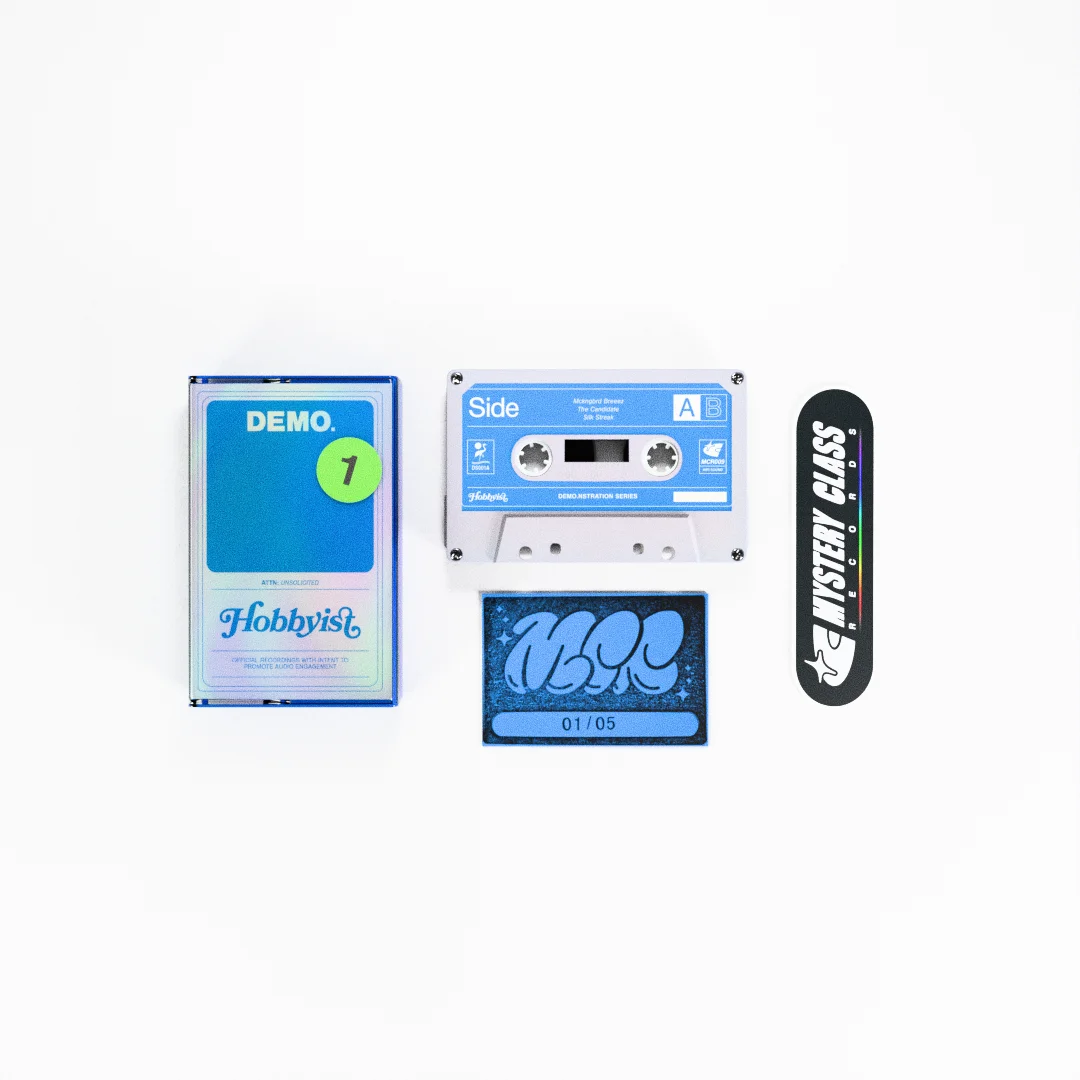
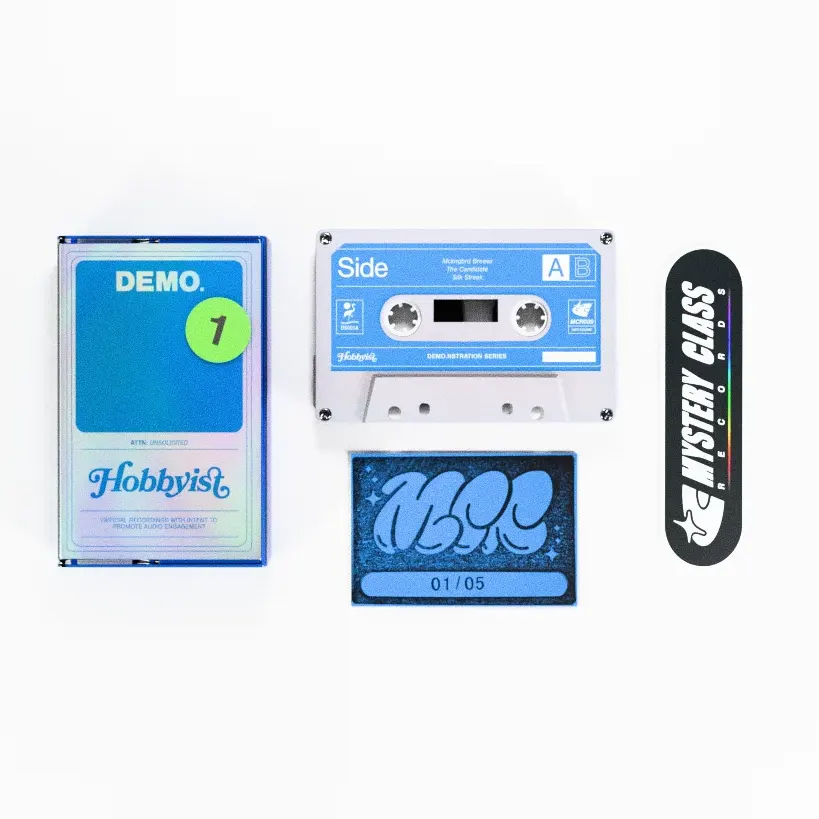
finished hobyist 2 (#12)

Changed region(s): [[0.0611, 0.2747, 0.9158, 0.7631]]

diff --git a/store/mcr-011/index.html b/store/mcr-011/index.html
@@ -4,7 +4,7 @@
     <!-- Metadata and Page Settings -->
     <meta charset="UTF-8">
     <meta name="viewport" content="width=device-width, initial-scale=1.0">
-    <title>Cassette - Demo.nstration #1 - Hobbyist,</title>
+    <title>Cassette - Demo.nstration #2 - Hobbyist,</title>
 
     <!-- Favicon -->
     <link rel="icon" href="../../assets/images/favicon.ico" type="image/x-icon">
@@ -49,11 +49,11 @@
     <main class="product-section">
       <div class="product-content-container">
         <div class="product-image">
-          <img src="../../assets/images/products/mcr-009/mcr-009-full.webp" alt="Product Image">
+          <img src="../../assets/images/products/mcr-011/mcr-011-full.webp" alt="Product Image">
         </div>
         <div class="product-image-spacer"></div>
         <div class="product-details-container">
-          <h1 class="product-title">Demo.nstration #1 - Pre-Order</h1>
+          <h1 class="product-title">Demo.nstration #2 - Pre-Order</h1>
           <div class="vertical-whitespace"></div>
           <h2 class="product-artist">Hobbyist,</h2>
           <div class="vertical-whitespace"></div>
@@ -63,7 +63,7 @@
             <span class="product-price">$10</span>
             <div class="product-buy-button">
 
-              <div id='product-component-1765554255802'></div>
+              <div id='product-component-1766208295638'></div>
               <script type="text/javascript">
               /*<![CDATA[*/
               (function () {
@@ -91,8 +91,8 @@
                   });
                   ShopifyBuy.UI.onReady(client).then(function (ui) {
                     ui.createComponent('product', {
-                      id: '8025872039990',
-                      node: document.getElementById('product-component-1765554255802'),
+                      id: '8097060978742',
+                      node: document.getElementById('product-component-1766208295638'),
                       moneyFormat: '%24%7B%7Bamount%7D%7D',
                       options: {
                 "product": {
@@ -399,12 +399,12 @@
             <h3>Track List</h3>
             <div class="vertical-whitespace"></div>
             <ol>
-              <li>Mckngbrd Breeez</li>
-              <li>The Candidate</li>
-              <li>Silk Streak</li>
-              <li>RedHat</li>
-              <li>New Things</li>
-              <li>Slketch</li>
+              <li>Get Right</li>
+              <li>Perspective</li>
+              <li>Pots & Logs</li>
+              <li>Firefly</li>
+              <li>Valleywill</li>
+              <li>Unwilted Stutter</li>
           </div>
           <hr class="separator">
           <div class="pressing-info">
@@ -412,7 +412,7 @@
             <div class="vertical-whitespace"></div>
             <p>First Edition Real-Time Dubbed</p>
             <p>White Cassette x5</p>
-            <p>MCR-009</p>
+            <p>MCR-011</p>
           </div>
         </div>
       </div>
@@ -422,7 +422,7 @@
     <!-- Description Section -->
     <section class="description-section">
       <p>
-        In collaboration with Zaragoza Record House—introducing the 1st EP and cassette of the Hobbyist, Demo.nstration Series.
+        In collaboration with Zaragoza Record House—this is the 2nd EP and cassette of the Hobbyist, Demo.nstration Series.
         <br><br>
         Limited to only 5, get your hands on this ultra rare gem while you can!
       </p>
@@ -441,16 +441,16 @@
           <h2 class="store-heading">RELATED</h2>
           <div class="store-grid">
 
-            <a href="../mcr-011/" class="merch-link">
+            <a href="../mcr-009/" class="merch-link">
               <div class="merch-block">
                 <div class="merch-block-image-container">
-                  <img src="../../assets/images/products/mcr-011/mcr-011.webp" alt="Product Image" class="merch-block-product-image default-image">
-                  <img src="../../assets/images/products/mcr-011/mcr-011-hover.webp" alt="Product Hover Image" class="merch-block-product-image hover-image">
+                  <img src="../../assets/images/products/mcr-009/mcr-009.webp" alt="Product Image" class="merch-block-product-image default-image">
+                  <img src="../../assets/images/products/mcr-009/mcr-009-hover.webp" alt="Product Hover Image" class="merch-block-product-image hover-image">
                 </div>
                 <div class="merch-block-details-container">
                   <div class="merch-block-names-container">
                     <p class="merch-block-artist-name">Hobbyist,</p>
-                    <p class="merch-block-product-name">Demo.nstration #2 - Cassette</p>
+                    <p class="merch-block-product-name">Demo.nstration #1 - Cassette</p>
                   </div>
                   <div class="merch-block-price-container">
                     <div class="merch-block-price">$10</div>

diff --git a/index.html b/index.html
@@ -59,27 +59,27 @@
     <!-- Featured Release Section -->
     <div class="featured-release">
       <div class="featured-release-hero">
-      <img src="assets/images/products/mcr-009/latest-release.webp" alt="Latest Release">
+      <img src="assets/images/products/mcr-011/latest-release.webp" alt="Latest Release">
       </div>
 
       <div class="falling-shapes">
-        <img src="assets/images/home/effects/sticker.webp" class="shape" style="--i:1;">
-        <img src="assets/images/home/effects/sticker.webp" class="shape" style="--i:2;">
-        <img src="assets/images/home/effects/sticker.webp" class="shape" style="--i:3;">
-        <img src="assets/images/home/effects/sticker.webp" class="shape" style="--i:4;">
+        <img src="assets/images/products/mcr-011/effect.webp" class="shape" style="--i:1;">
+        <img src="assets/images/products/mcr-011/effect.webp" class="shape" style="--i:2;">
+        <img src="assets/images/products/mcr-011/effect.webp" class="shape" style="--i:3;">
+        <img src="assets/images/products/mcr-011/effect.webp" class="shape" style="--i:4;">
       </div>
 
 
       <div class="release-text">
         <h2 class="release-heading">LATEST RELEASE</h2>
-        <h3 class="release-title">Demo.nstration #1</h3>
+        <h3 class="release-title">Demo.nstration #2</h3>
         <div class="rainbow-underline"></div>
         <p>
-          In collaboration with Zaragoza Record House—introducing the 1st EP and cassette of the Hobbyist, Demo.nstration Series.
-          <br> <br>
+          In collaboration with Zaragoza Record House—this is the 2nd EP and cassette of the Hobbyist, Demo.nstration Series.
+          <br><br>
           Limited to only 5, get your hands on this ultra rare gem while you can!
         </p>
-        <button class="pre-order-button" onclick="location.href='store/mcr-009/'">
+        <button class="pre-order-button" onclick="location.href='store/mcr-011/'">
           PRE-ORDER
         </button>        
       </div>
@@ -88,6 +88,24 @@
     <!-- Store Section -->
     <div class="store-section">
       <div class="store-grid">
+
+        <a href="store/mcr-011/" class="merch-link">
+          <div class="merch-block">
+            <div class="merch-block-image-container">
+              <img src="assets/images/products/mcr-011/mcr-011.webp" alt="Product Image" class="merch-block-product-image default-image">
+              <img src="assets/images/products/mcr-011/mcr-011-hover.webp" alt="Product Hover Image" class="merch-block-product-image hover-image">
+            </div>
+            <div class="merch-block-details-container">
+              <div class="merch-block-names-container">
+                <p class="merch-block-artist-name">Hobbyist,</p>
+                <p class="merch-block-product-name">Demo.nstration #2 - CASSETTE</p>
+              </div>
+              <div class="merch-block-price-container">
+                <div class="merch-block-price">$10</div>
+              </div>
+            </div>
+          </div>
+        </a>
 
         <a href="store/mcr-009/" class="merch-link">
           <div class="merch-block">

diff --git a/store/index.html b/store/index.html
@@ -48,6 +48,24 @@
       <div class="store-container">
         <h1 class="store-heading">STORE</h1>
         <div class="store-grid">
+
+          <a href="mcr-011/" class="merch-link">
+            <div class="merch-block">
+              <div class="merch-block-image-container">
+                <img src="../assets/images/products/mcr-011/mcr-011.webp" alt="Product Image" class="merch-block-product-image default-image">
+                <img src="../assets/images/products/mcr-011/mcr-011-hover.webp" alt="Product Hover Image" class="merch-block-product-image hover-image">
+              </div>
+              <div class="merch-block-details-container">
+                <div class="merch-block-names-container">
+                  <p class="merch-block-artist-name">Hobbyist,</p>
+                  <p class="merch-block-product-name">Demo.nstration #2 - CASSETTE</p>
+                </div>
+                <div class="merch-block-price-container">
+                  <div class="merch-block-price">$10</div>
+                </div>
+              </div>
+            </div>
+          </a>
           
           <a href="mcr-009/" class="merch-link">
             <div class="merch-block">
